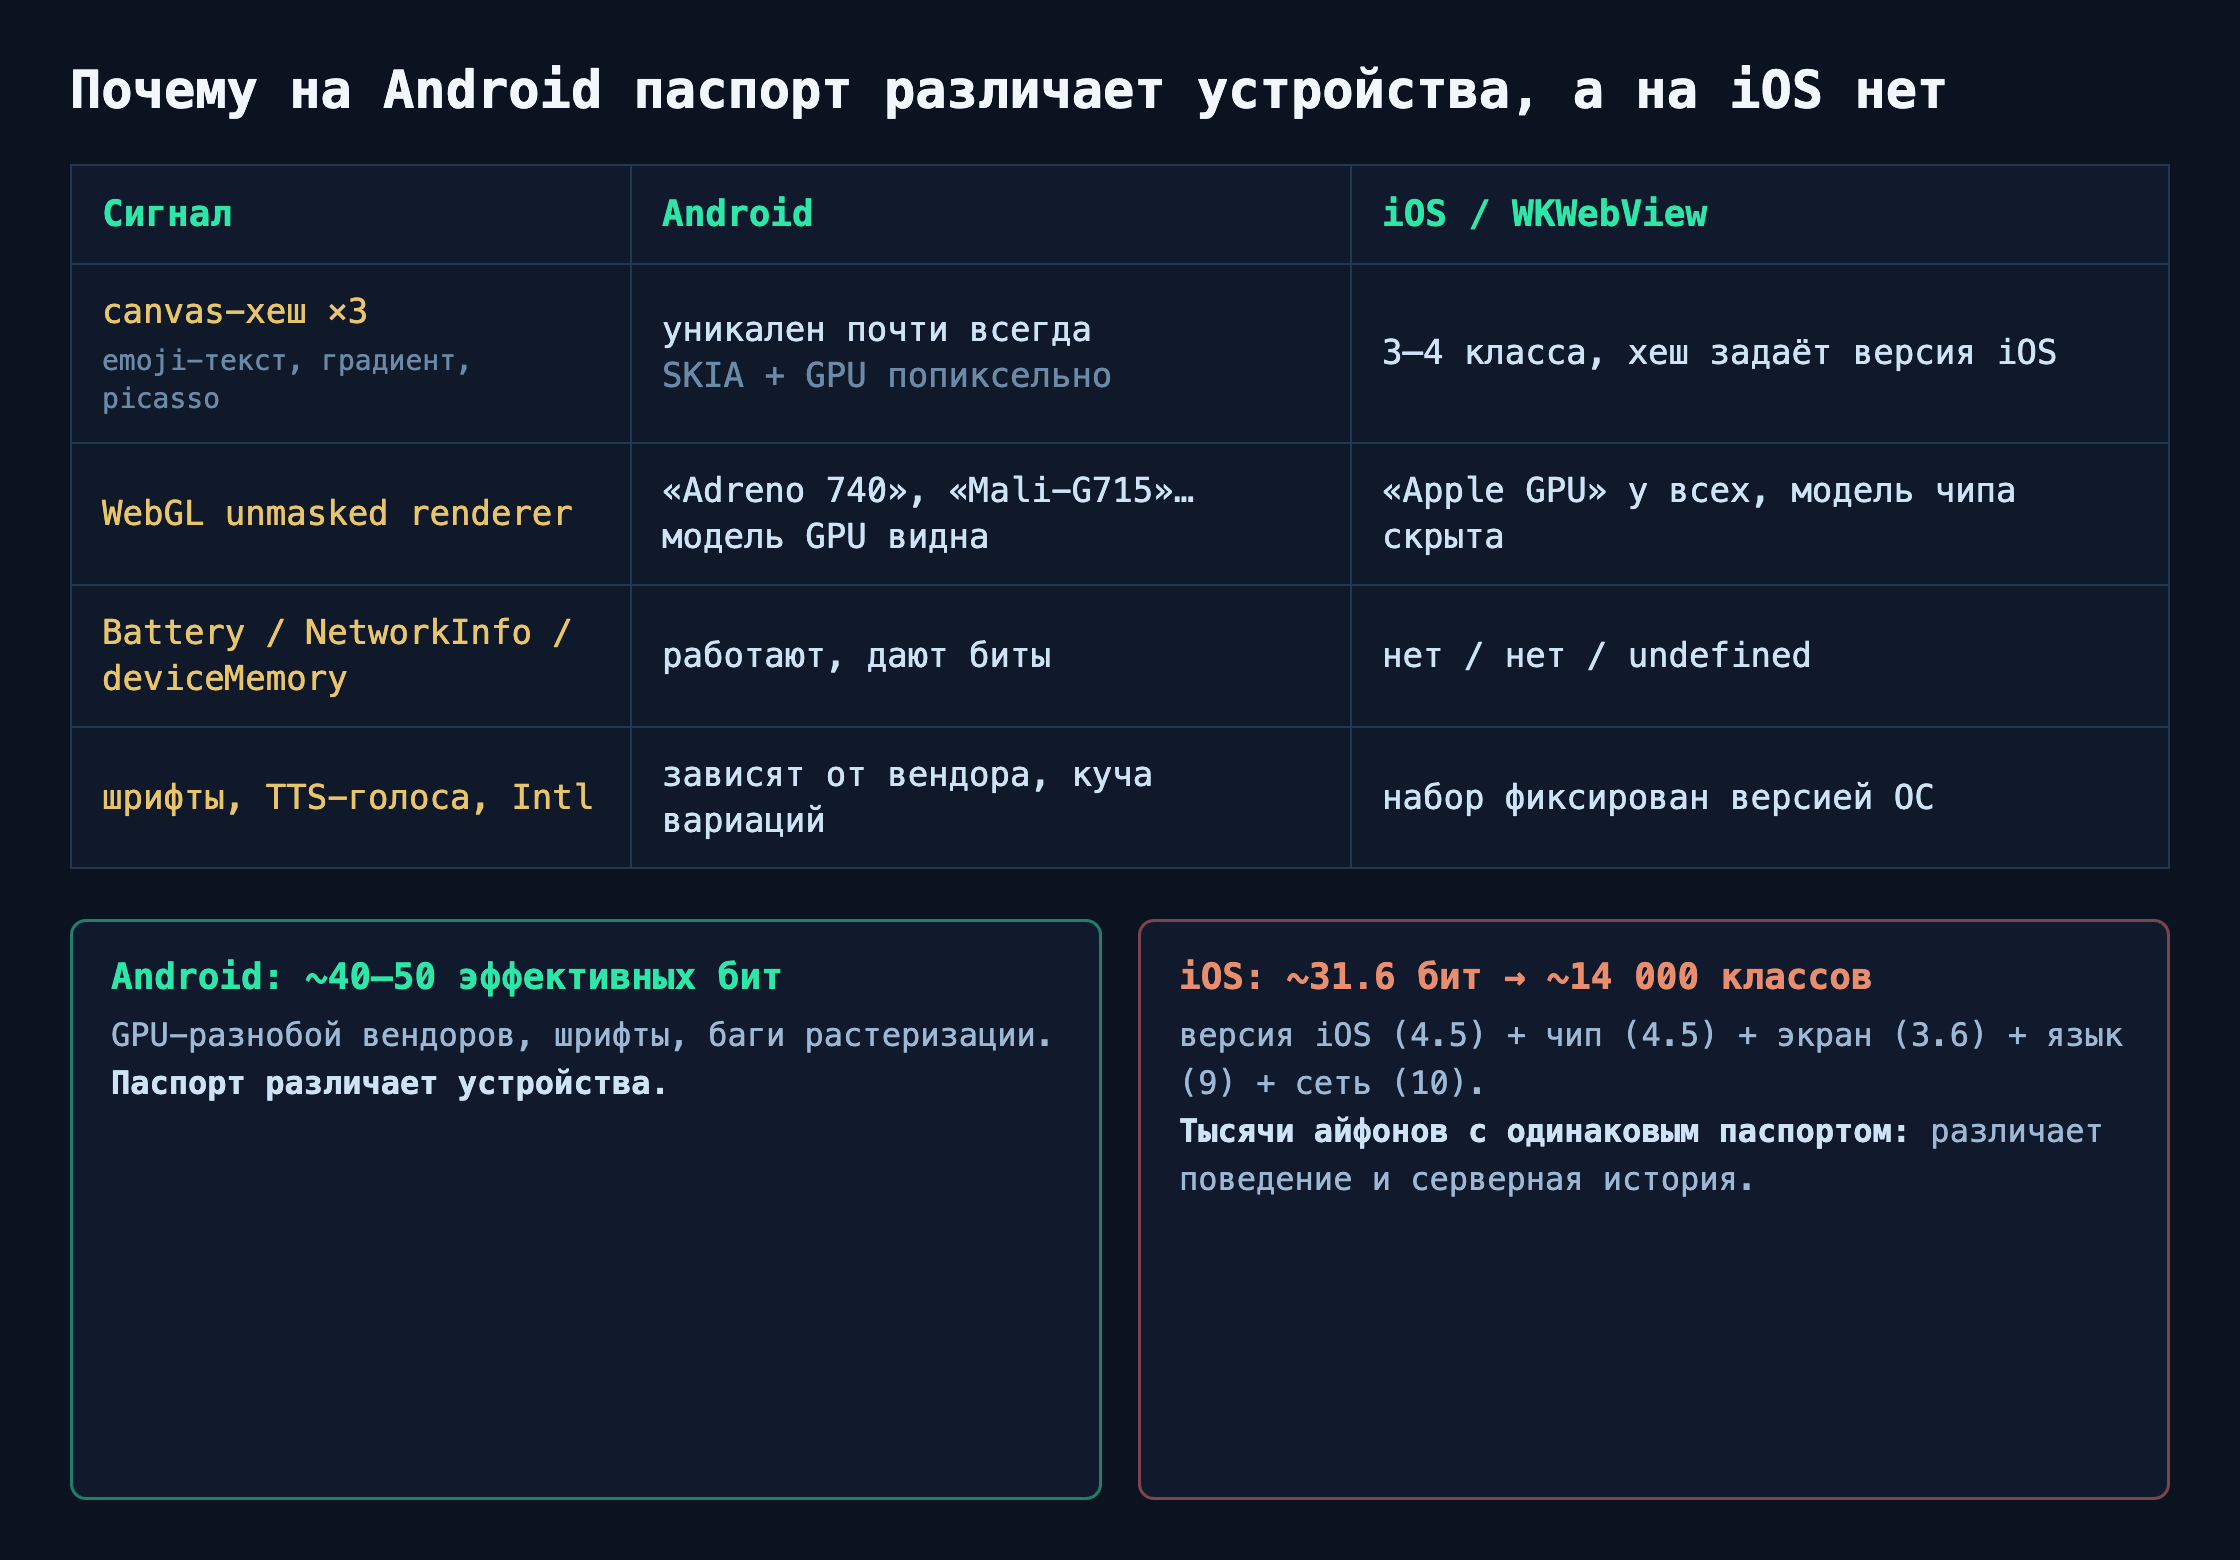
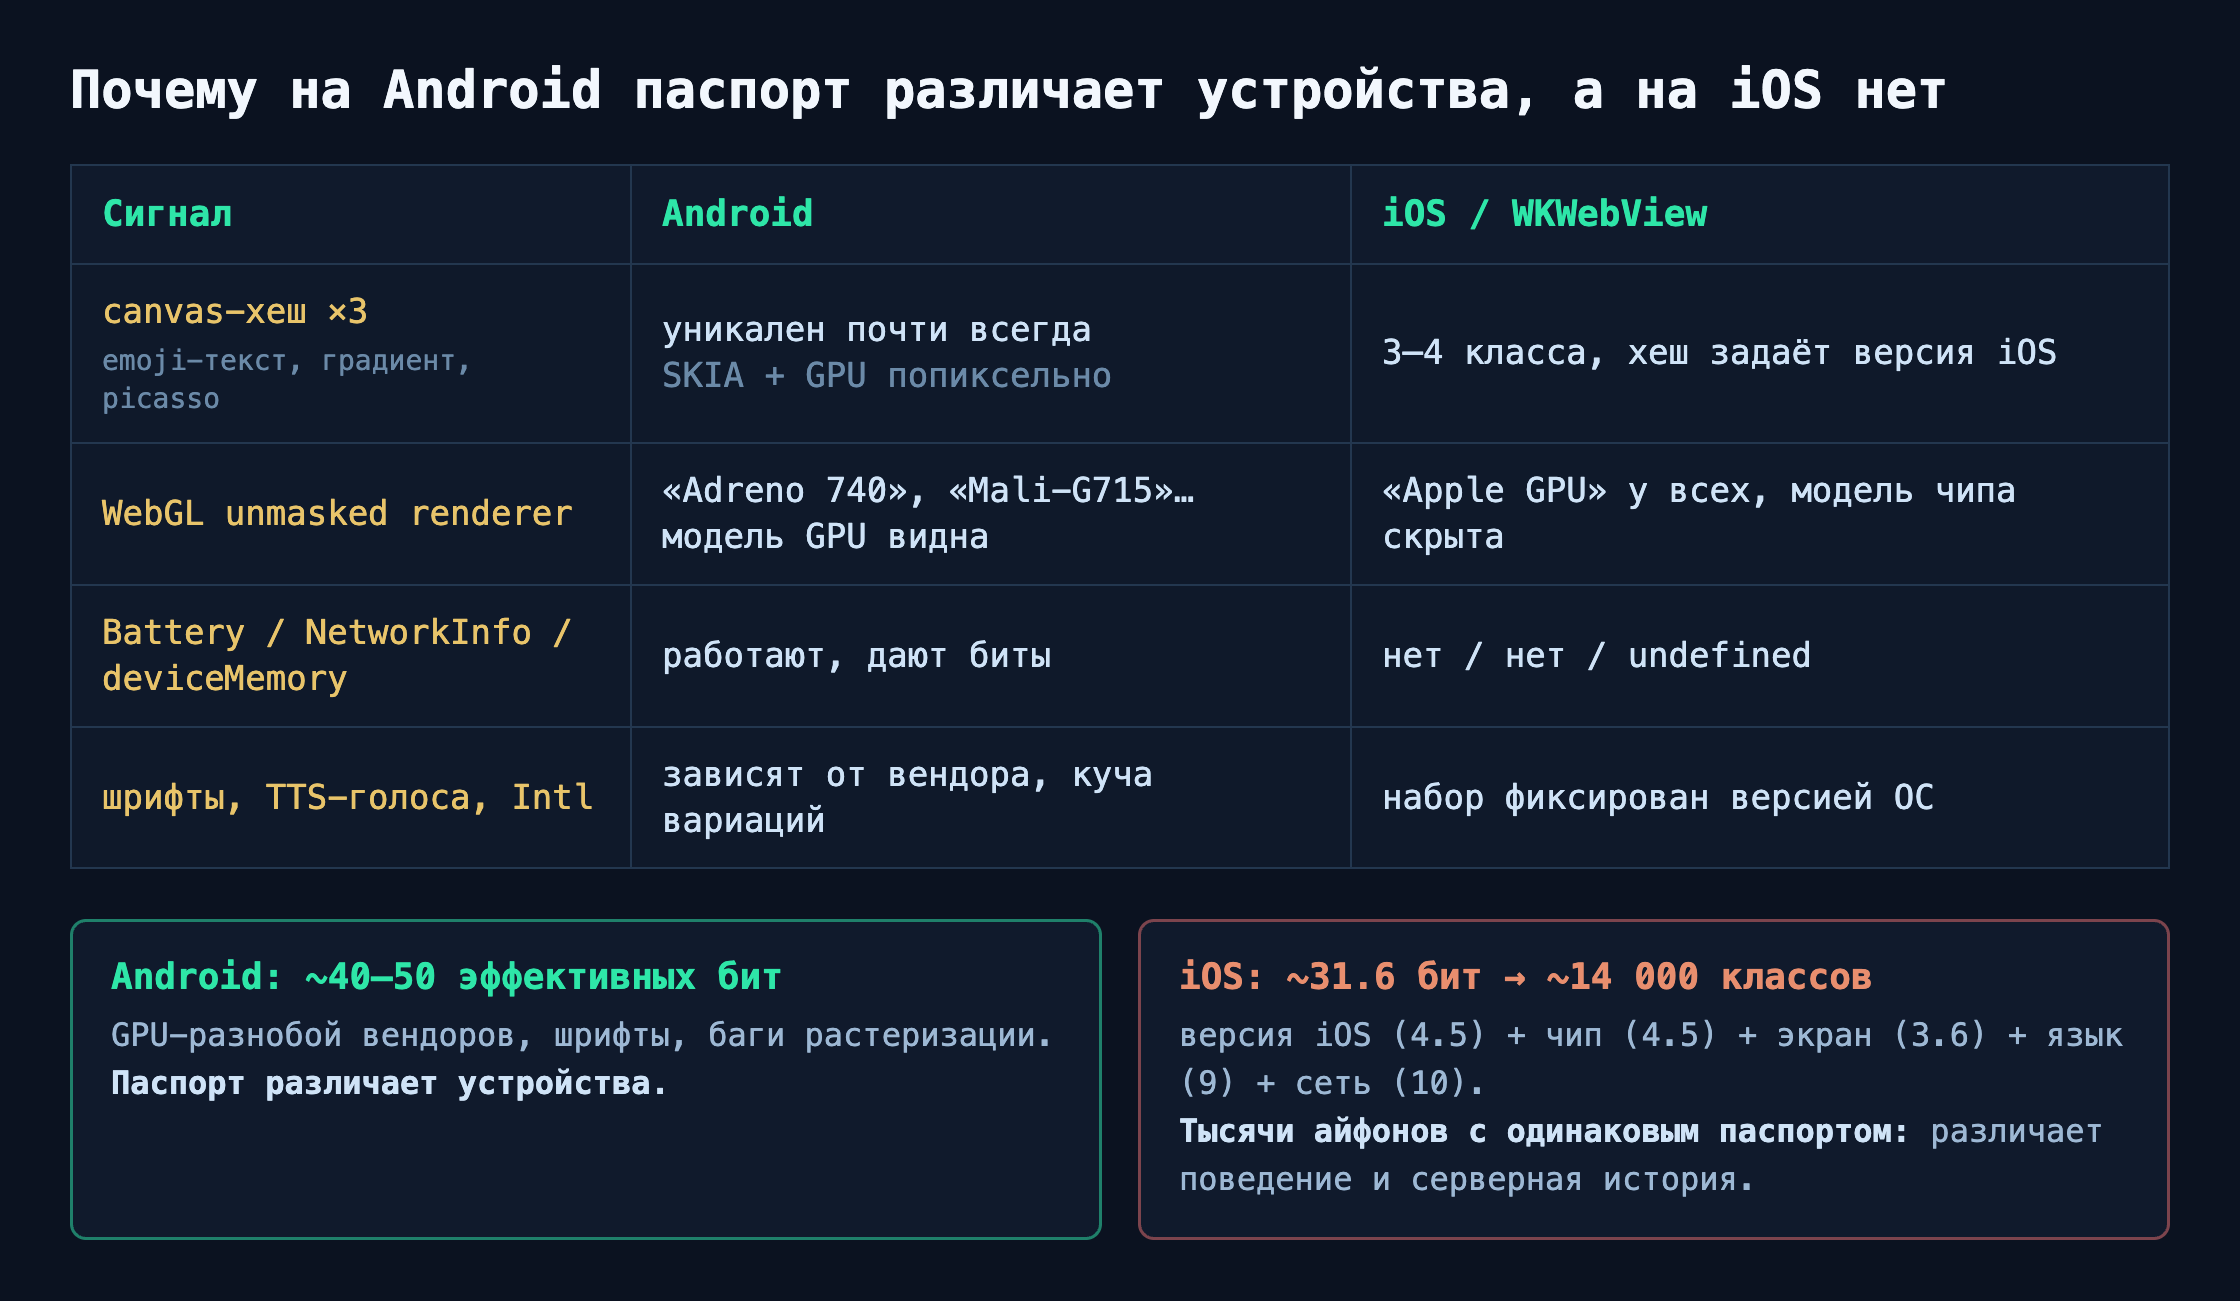
figures: crop to content, no fixed height

diff --git a/docs/part2/images/fp2_fig2.html b/docs/part2/images/fp2_fig2.html
@@ -5,7 +5,7 @@
 <style>
   * { margin: 0; padding: 0; box-sizing: border-box; }
   body {
-    width: 2240px; height: 1560px;
+    width: 2240px;
     background: #0b1220;
     font-family: 'SF Mono', Menlo, Consolas, monospace;
     color: #dbe7f4;
@@ -27,7 +27,7 @@
   td { background: rgba(16,26,44,0.85); color: #cfe3f7; }
   td.sig { color: #e8c46a; }
   td small { color: #6b8aa8; font-size: 28px; display: block; margin-top: 8px; }
-  .verdict { margin-top: 50px; display: flex; gap: 36px; flex: 1; }
+  .verdict { margin-top: 50px; display: flex; gap: 36px; }
   .card {
     flex: 1;
     background: #101a2c;

diff --git a/docs/part2/images/fp2_fig1.html b/docs/part2/images/fp2_fig1.html
@@ -5,7 +5,7 @@
 <style>
   * { margin: 0; padding: 0; box-sizing: border-box; }
   body {
-    width: 2240px; height: 900px;
+    width: 2240px;
     background: #0b1220;
     font-family: 'SF Mono', Menlo, Consolas, monospace;
     color: #dbe7f4;
@@ -16,7 +16,7 @@
   }
   h2 { font-size: 52px; color: #f2f7fd; font-weight: 700; }
   .dim { color: #6b8aa8; }
-  .flow { display: flex; align-items: stretch; gap: 26px; margin-top: 54px; flex: 1; }
+  .flow { display: flex; align-items: stretch; gap: 26px; margin-top: 54px; }
   .box {
     background: #101a2c;
     border: 3px solid #23374f;
